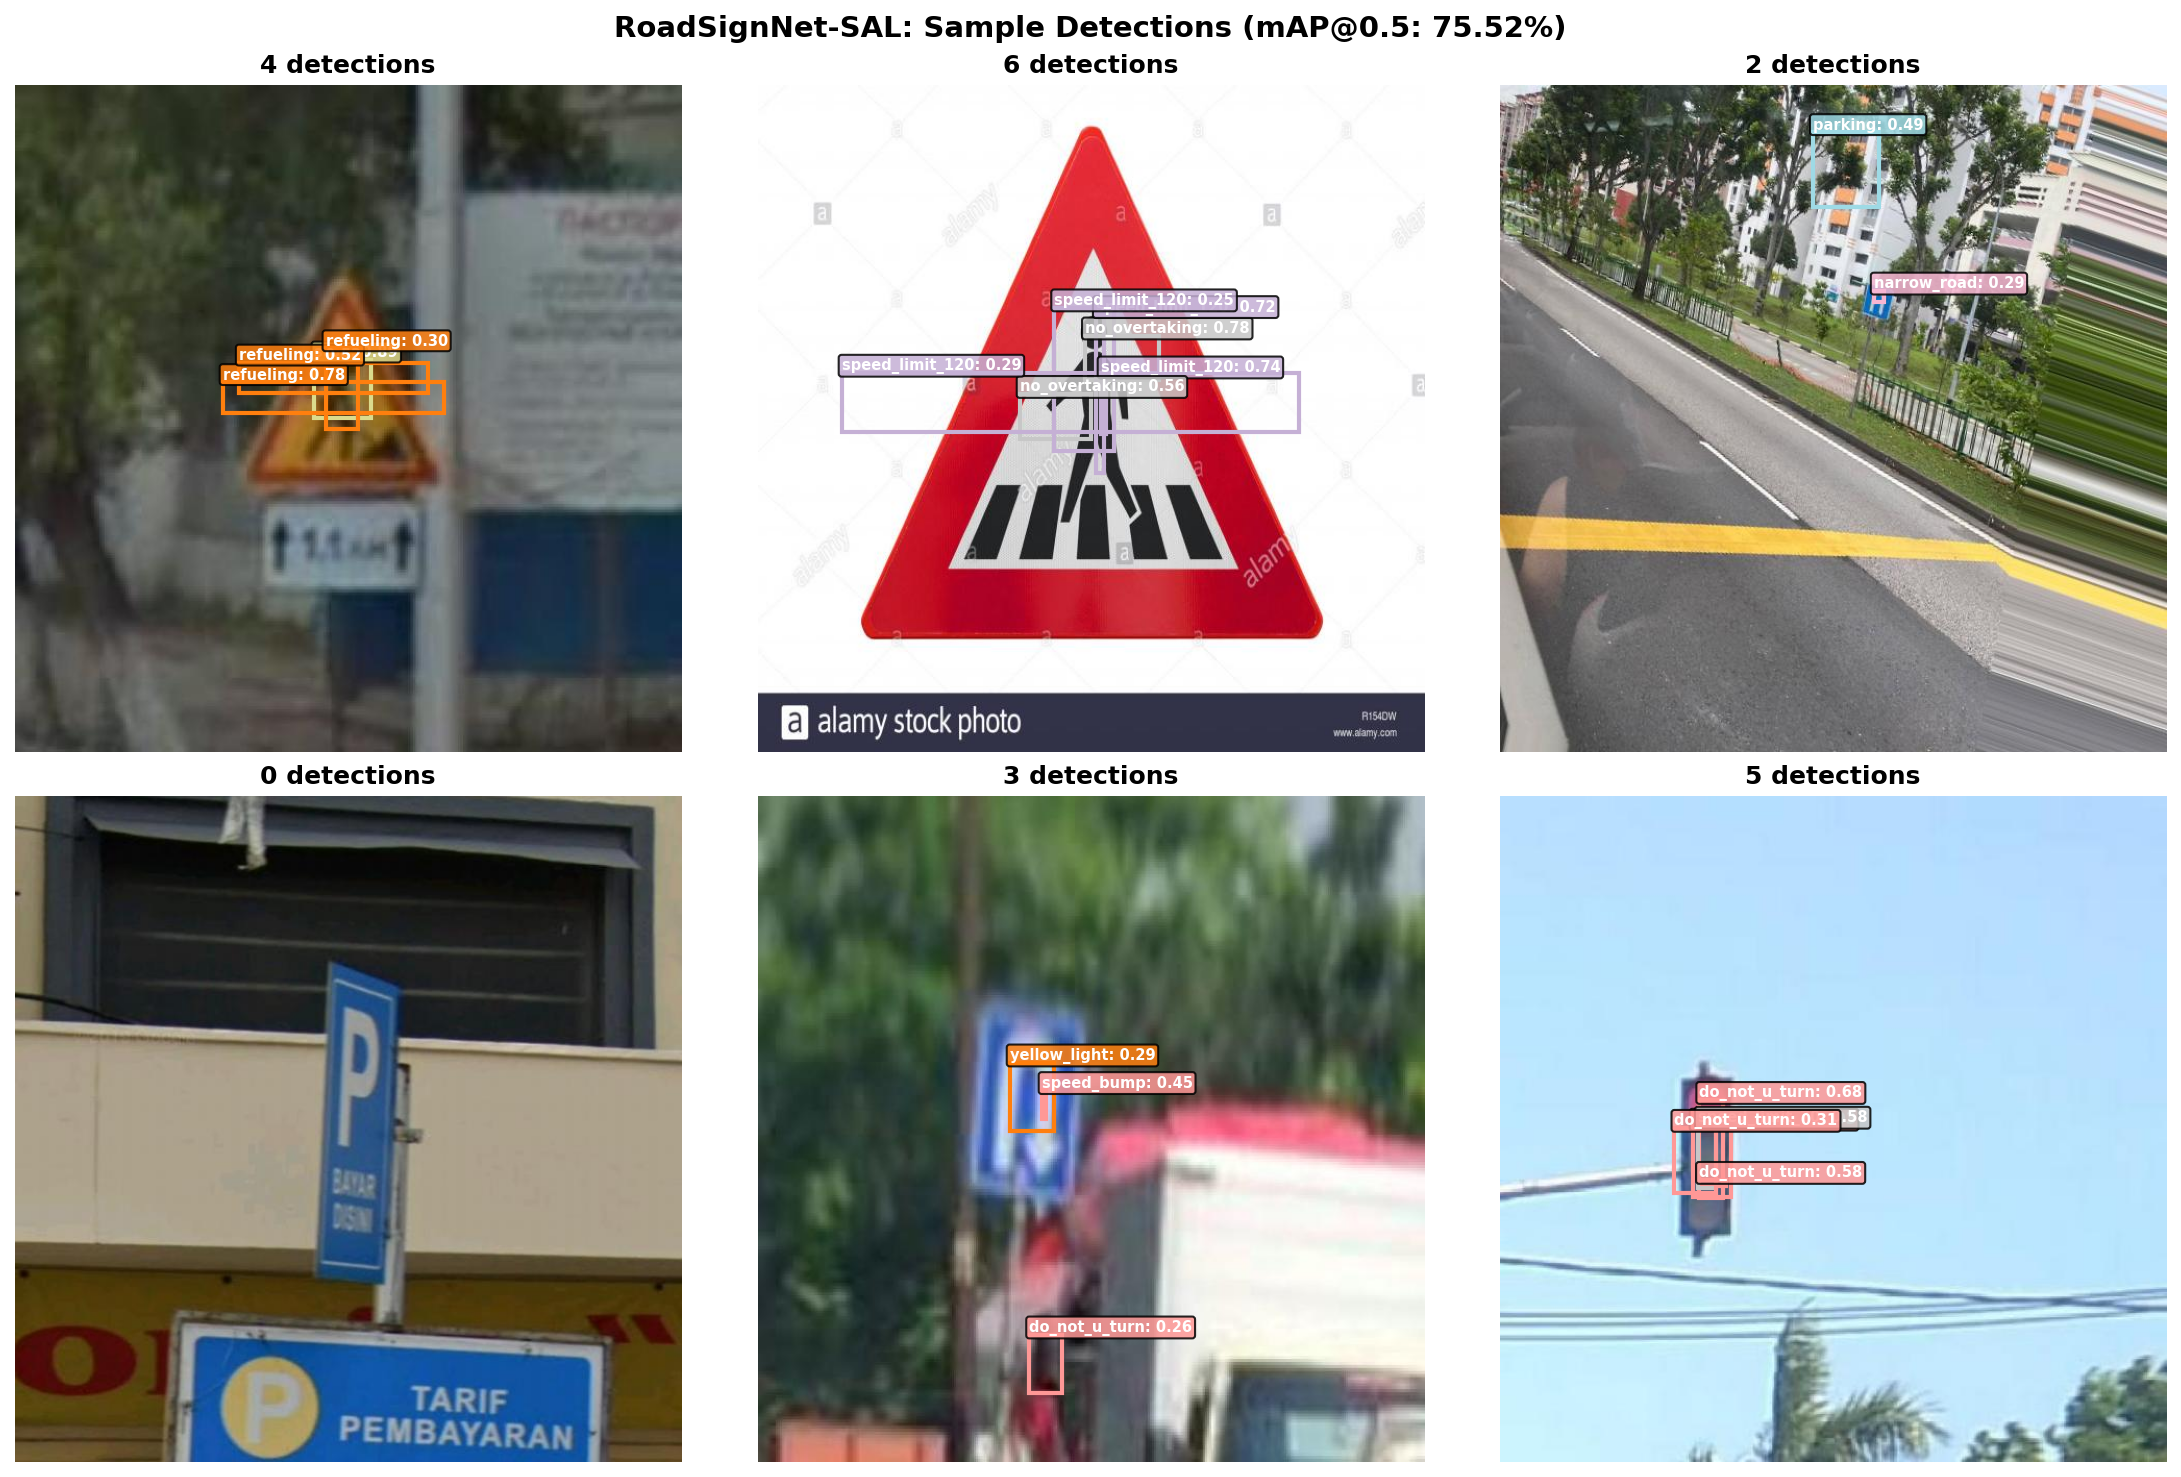
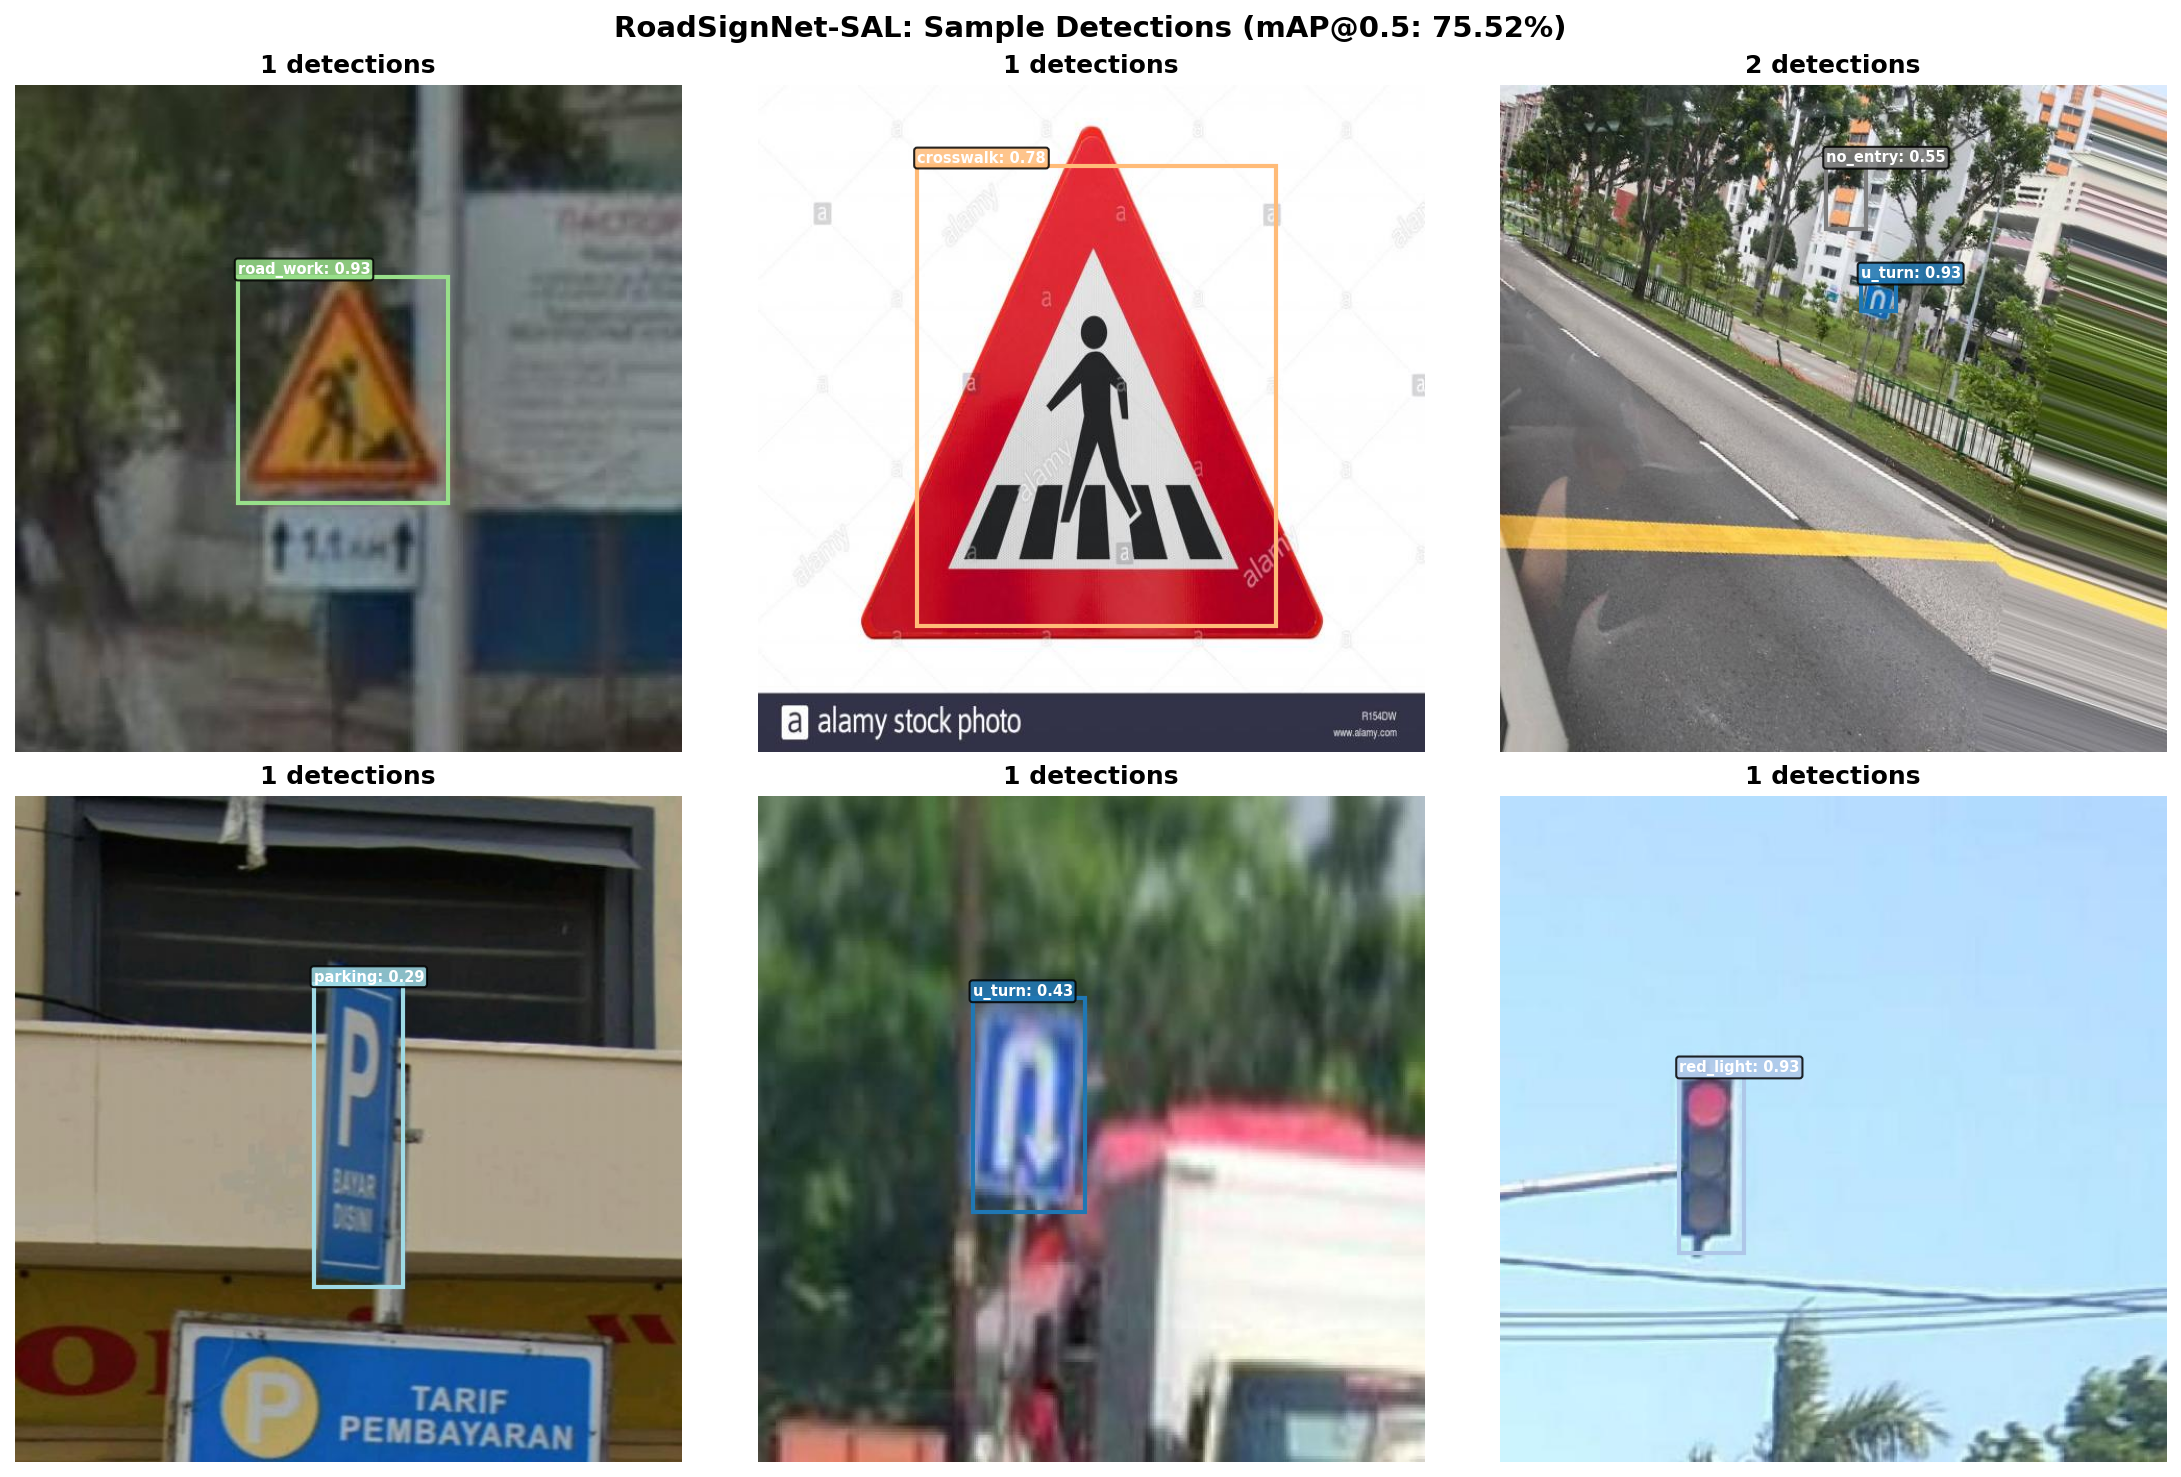
Fix sample detection script to use proper DetectionDecoder

diff --git a/scripts/generate_sample_detections.py b/scripts/generate_sample_detections.py
@@ -1,5 +1,6 @@
 """
 Generate sample detection images for thesis defense slides.
+Uses the proper DetectionDecoder from the loss module.
 """
 import torch
 import sys
@@ -7,6 +8,7 @@ import os
 sys.path.insert(0, os.path.dirname(os.path.dirname(os.path.abspath(__file__))))
 
 from roadsignnet_sal.model_optimized import create_roadsignnet_optimized
+from roadsignnet_sal.loss import DetectionDecoder
 from PIL import Image
 import torchvision.transforms as T
 import glob
@@ -16,79 +18,7 @@ import yaml
 import numpy as np
 
 
-def decode_predictions(outputs, conf_thresh=0.3, nms_thresh=0.5):
-    """Decode raw model outputs to boxes, scores, labels."""
-    all_boxes = []
-    all_scores = []
-    all_labels = []
-    
-    strides = [8, 16, 32]
-    
-    for i, output in enumerate(outputs):
-        stride = strides[i]
-        batch_size, _, h, w = output.shape
-        
-        # Output format: [batch, 4+1+num_classes, h, w]
-        output = output.permute(0, 2, 3, 1)  # [batch, h, w, channels]
-        
-        # Create grid
-        yv, xv = torch.meshgrid(torch.arange(h), torch.arange(w), indexing='ij')
-        grid = torch.stack([xv, yv], dim=-1).float().unsqueeze(0)
-        
-        # Decode boxes (first 4 channels)
-        box_output = output[..., :4]
-        xy = (torch.sigmoid(box_output[..., :2]) + grid) * stride
-        wh = torch.exp(box_output[..., 2:4]) * stride
-        
-        x1 = xy[..., 0] - wh[..., 0] / 2
-        y1 = xy[..., 1] - wh[..., 1] / 2
-        x2 = xy[..., 0] + wh[..., 0] / 2
-        y2 = xy[..., 1] + wh[..., 1] / 2
-        
-        boxes = torch.stack([x1, y1, x2, y2], dim=-1)
-        
-        # Objectness (5th channel)
-        obj = torch.sigmoid(output[..., 4:5])
-        
-        # Class probabilities
-        cls = torch.sigmoid(output[..., 5:])
-        
-        # Combine objectness and class probs
-        scores = obj * cls
-        
-        # Flatten
-        boxes = boxes.reshape(-1, 4)
-        scores = scores.reshape(-1, cls.shape[-1])
-        
-        all_boxes.append(boxes)
-        all_scores.append(scores)
-    
-    # Concatenate all scales
-    boxes = torch.cat(all_boxes, dim=0)
-    scores = torch.cat(all_scores, dim=0)
-    
-    # Get max class score and label for each box
-    max_scores, labels = scores.max(dim=1)
-    
-    # Filter by confidence
-    mask = max_scores > conf_thresh
-    boxes = boxes[mask]
-    max_scores = max_scores[mask]
-    labels = labels[mask]
-    
-    # Simple NMS
-    if len(boxes) > 0:
-        keep = torchvision.ops.nms(boxes, max_scores, nms_thresh)
-        boxes = boxes[keep]
-        max_scores = max_scores[keep]
-        labels = labels[keep]
-    
-    return boxes, max_scores, labels
-
-
 def main():
-    import torchvision.ops
-    
     # Load class names
     with open('data/data.yaml', 'r') as f:
         data_config = yaml.safe_load(f)
@@ -103,6 +33,14 @@ def main():
     model.to(device)
     model.eval()
     print(f'Model loaded on {device}')
+    
+    # Create decoder (same as evaluation script)
+    decoder = DetectionDecoder(
+        num_classes=43,
+        conf_thresh=0.3,  # Good balance for visualization
+        iou_thresh=0.45,
+        img_size=320
+    )
     
     # Transform
     transform = T.Compose([
@@ -127,8 +65,6 @@ def main():
     fig, axes = plt.subplots(2, 3, figsize=(15, 10))
     axes = axes.flatten()
     
-    strides = [8, 16, 32]
-    
     for idx, img_path in enumerate(test_images):
         print(f'Processing image {idx+1}/{len(test_images)}: {os.path.basename(img_path)}')
         
@@ -140,76 +76,13 @@ def main():
         with torch.no_grad():
             outputs = model(input_tensor)
         
-        # Decode predictions
-        # Model output format: list of (cls, box, obj) tuples per scale
-        # cls: [B, num_classes*3, H, W] -> reshape needed
-        # box: [B, 12, H, W] -> 4 coords * 3 anchors  
-        # obj: [B, 3, H, W] -> 3 anchors
-        all_boxes = []
-        all_scores = []
+        # Decode predictions using proper decoder
+        boxes, scores, labels = decoder.decode(outputs)
         
-        for i, (cls_out, box_out, obj_out) in enumerate(outputs):
-            stride = strides[i]
-            batch_size, _, h, w = box_out.shape
-            num_anchors = 3
-            
-            # Move to CPU
-            cls_out = cls_out.cpu()  # [B, num_classes*3, H, W]
-            box_out = box_out.cpu()  # [B, 12, H, W]
-            obj_out = obj_out.cpu()  # [B, 3, H, W]
-            
-            # Reshape outputs
-            cls_out = cls_out.view(batch_size, 43, num_anchors, h, w).permute(0, 2, 3, 4, 1)  # [B, 3, H, W, 43]
-            box_out = box_out.view(batch_size, 4, num_anchors, h, w).permute(0, 2, 3, 4, 1)  # [B, 3, H, W, 4]
-            obj_out = obj_out.view(batch_size, num_anchors, h, w).unsqueeze(-1)  # [B, 3, H, W, 1]
-            
-            # Create grid
-            yv, xv = torch.meshgrid(torch.arange(h), torch.arange(w), indexing='ij')
-            grid = torch.stack([xv, yv], dim=-1).float()  # [H, W, 2]
-            
-            # Decode boxes
-            xy = (torch.sigmoid(box_out[..., :2]) + grid.unsqueeze(0).unsqueeze(0)) * stride
-            wh = torch.exp(torch.clamp(box_out[..., 2:4], max=10)) * stride
-            
-            x1 = xy[..., 0] - wh[..., 0] / 2
-            y1 = xy[..., 1] - wh[..., 1] / 2
-            x2 = xy[..., 0] + wh[..., 0] / 2
-            y2 = xy[..., 1] + wh[..., 1] / 2
-            
-            boxes = torch.stack([x1, y1, x2, y2], dim=-1)  # [B, 3, H, W, 4]
-            
-            # Scores = obj * cls
-            obj_prob = torch.sigmoid(obj_out)  # [B, 3, H, W, 1]
-            cls_prob = torch.sigmoid(cls_out)  # [B, 3, H, W, 43]
-            scores = obj_prob * cls_prob  # [B, 3, H, W, 43]
-            
-            # Flatten
-            boxes = boxes.reshape(-1, 4)
-            scores = scores.reshape(-1, 43)
-            
-            all_boxes.append(boxes)
-            all_scores.append(scores)
-        
-        boxes = torch.cat(all_boxes, dim=0)
-        scores = torch.cat(all_scores, dim=0)
-        
-        # Get max class score
-        max_scores, labels = scores.max(dim=1)
-        
-        # Filter by confidence
-        conf_thresh = 0.25
-        mask = max_scores > conf_thresh
-        boxes = boxes[mask]
-        max_scores = max_scores[mask]
-        labels = labels[mask]
-        
-        # NMS
-        if len(boxes) > 0:
-            import torchvision.ops
-            keep = torchvision.ops.nms(boxes, max_scores, 0.5)
-            boxes = boxes[keep]
-            max_scores = max_scores[keep]
-            labels = labels[keep]
+        # Move to CPU
+        boxes = boxes.cpu()
+        scores = scores.cpu()
+        labels = labels.cpu()
         
         print(f'  Found {len(boxes)} detections')
         
@@ -219,17 +92,17 @@ def main():
         ax.set_title(f'{len(boxes)} detections', fontsize=12, fontweight='bold')
         ax.axis('off')
         
-        # Draw boxes
+        # Draw boxes (limit to top 10)
         colors = plt.cm.tab20(np.linspace(0, 1, 20))
-        for i, (box, score, label) in enumerate(zip(boxes[:10], max_scores[:10], labels[:10])):
+        for i, (box, score, label) in enumerate(zip(boxes[:10], scores[:10], labels[:10])):
             x1, y1, x2, y2 = box.tolist()
-            # Scale to original size
+            # Scale to original size (model uses 320x320)
             x1 = x1 * orig_w / 320
             y1 = y1 * orig_h / 320
             x2 = x2 * orig_w / 320
             y2 = y2 * orig_h / 320
             
-            # Clamp
+            # Clamp to image bounds
             x1 = max(0, min(x1, orig_w))
             y1 = max(0, min(y1, orig_h))
             x2 = max(0, min(x2, orig_w))
